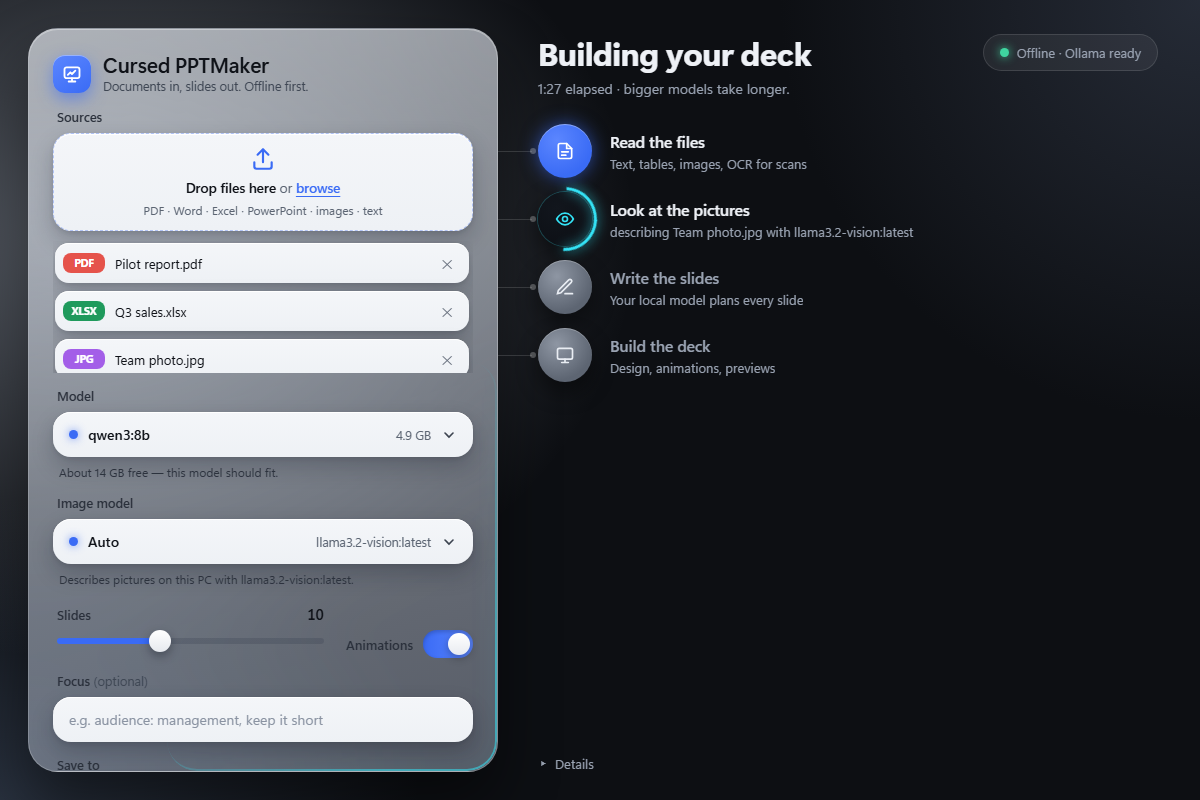
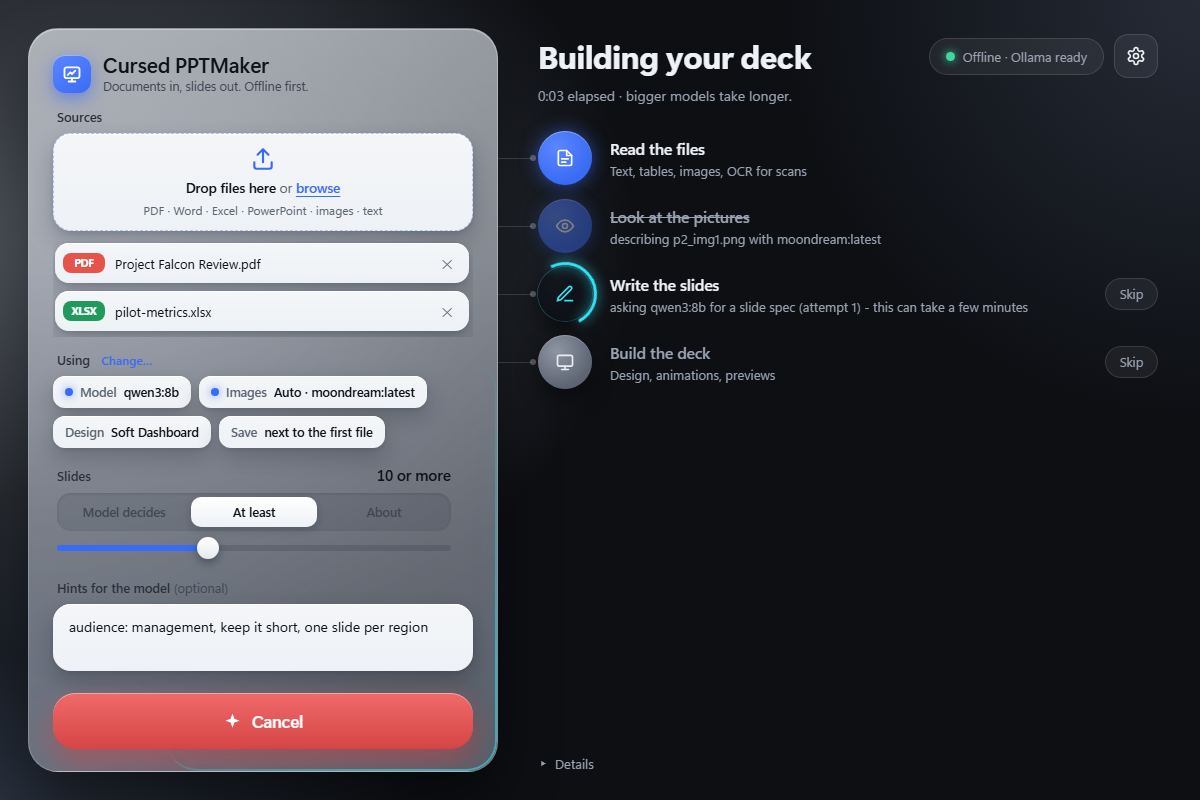
Refresh README screenshots and add the slide editor
- New app-editor.png; app-result.png and app-running.png show the
  slide-count modes, hints, Cancel/Skip and Edit slides.
- Hide "Edit a deck made earlier…" while a deck is being built.

diff --git a/ui/index.html b/ui/index.html
@@ -984,6 +984,7 @@ function updateGo() {
   const ready = state.files.length && state.model && !state.busy;
   $("go").disabled = !ready && !state.busy;
   $("go").classList.toggle("cancel", state.busy);
+  $("open-old").hidden = state.busy;
   $("steps").classList.toggle("running", state.busy);
   $("go-txt").textContent = state.busy ? "Cancel" : !state.files.length ? "Add files to start"
                           : state.slideMode === "auto" ? "Generate deck"

diff --git a/README.md b/README.md
@@ -159,6 +159,8 @@ click any chip to jump straight to that setting.
 | **Result** | open the deck or its folder, click thumbnails to enlarge, see the offline stamp, and **Edit slides** |
 | **Edit slides** | a slide editor (no JSON): drag or ↑↓ to reorder, ✕ to remove, **+ Add slide** (blank or *Write with AI*), a form per slide (title, bullets, cards, table, chart data, picture, notes…), **Rewrite this slide with AI** for one slide only, **Refresh previews**, then **Export PPT…** to save a new deck. Edits are kept in `spec.json`; **Edit a deck made earlier…** under Generate reopens any deck's `spec.json` |
 
+![The slide editor: reorder, add, remove and edit slides, then export](docs/images/app-editor.png)
+
 Only one window runs at a time (a second launch just tells you it is already open).
 The app uses Windows' built-in Edge WebView2 to draw its interface — no browser or
 internet needed.
